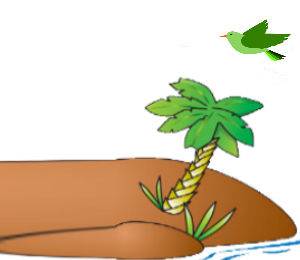
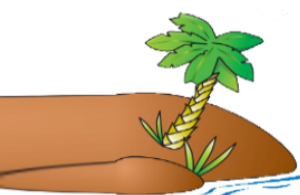
Modification bateau, modification des collisions, ajustements

diff --git a/public_html/js/scenes.js b/public_html/js/scenes.js
@@ -82,7 +82,7 @@ Crafty.scene("main", function() {
     
     // Right island
     Crafty.e('RightIsland').at(Game.map_grid.width - 20, Game.map_grid.height - 11).dim(14, 12);
-    Crafty.e('LeftIsland').at(0, Game.map_grid.height - 11).dim(15, 13);
+    Crafty.e('LeftIsland').at(0, Game.map_grid.height - 8).dim(15, 13);
     
 	
         
